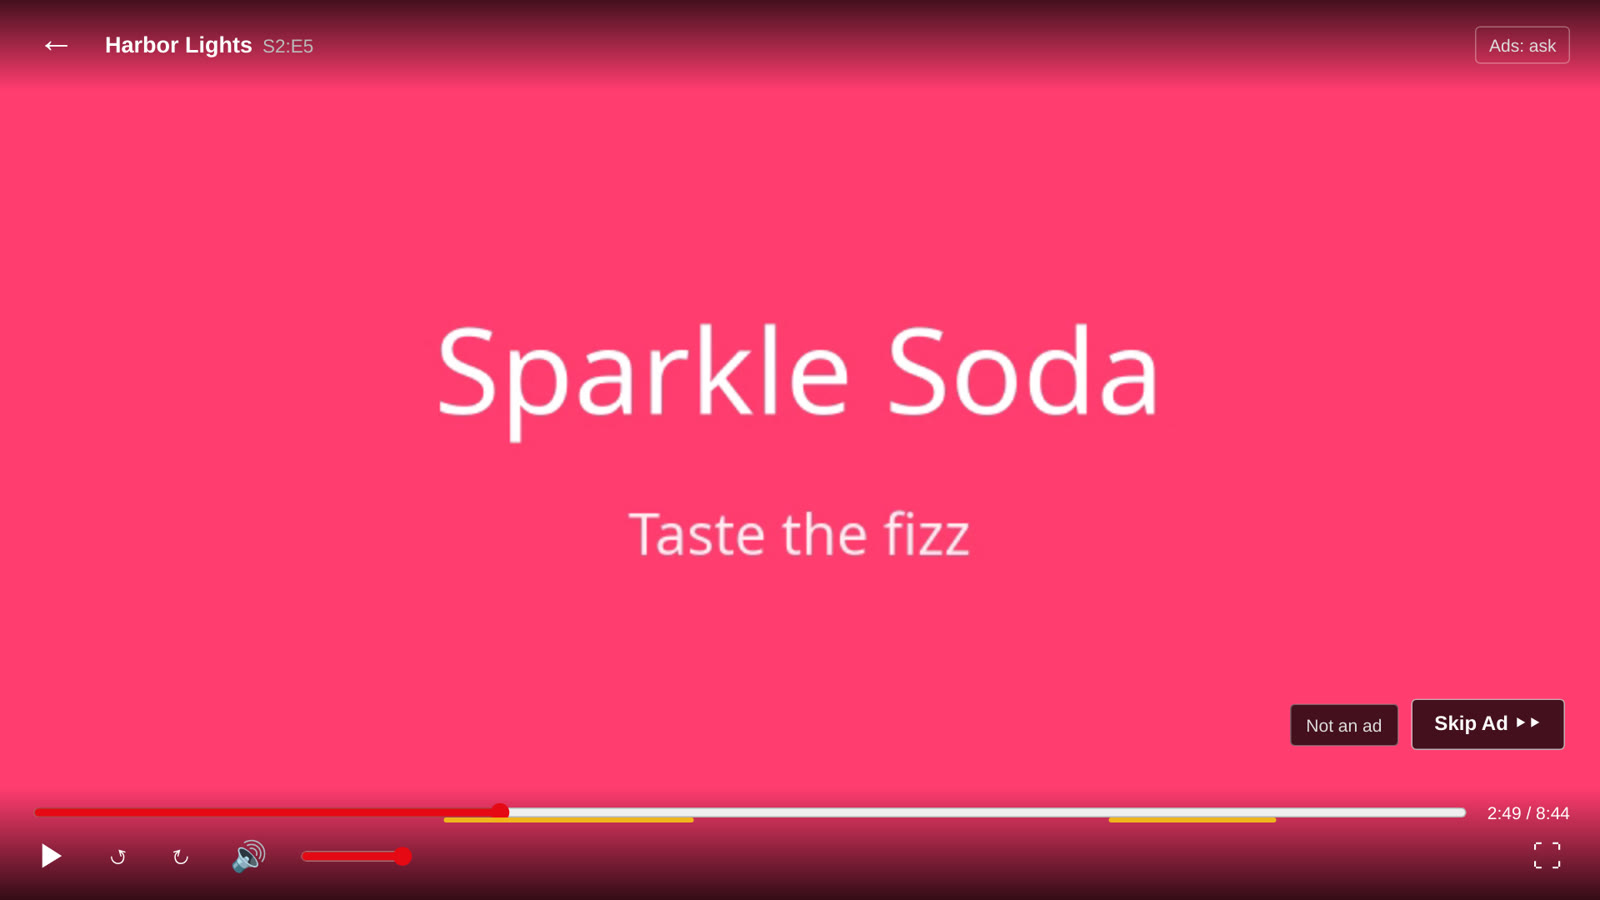
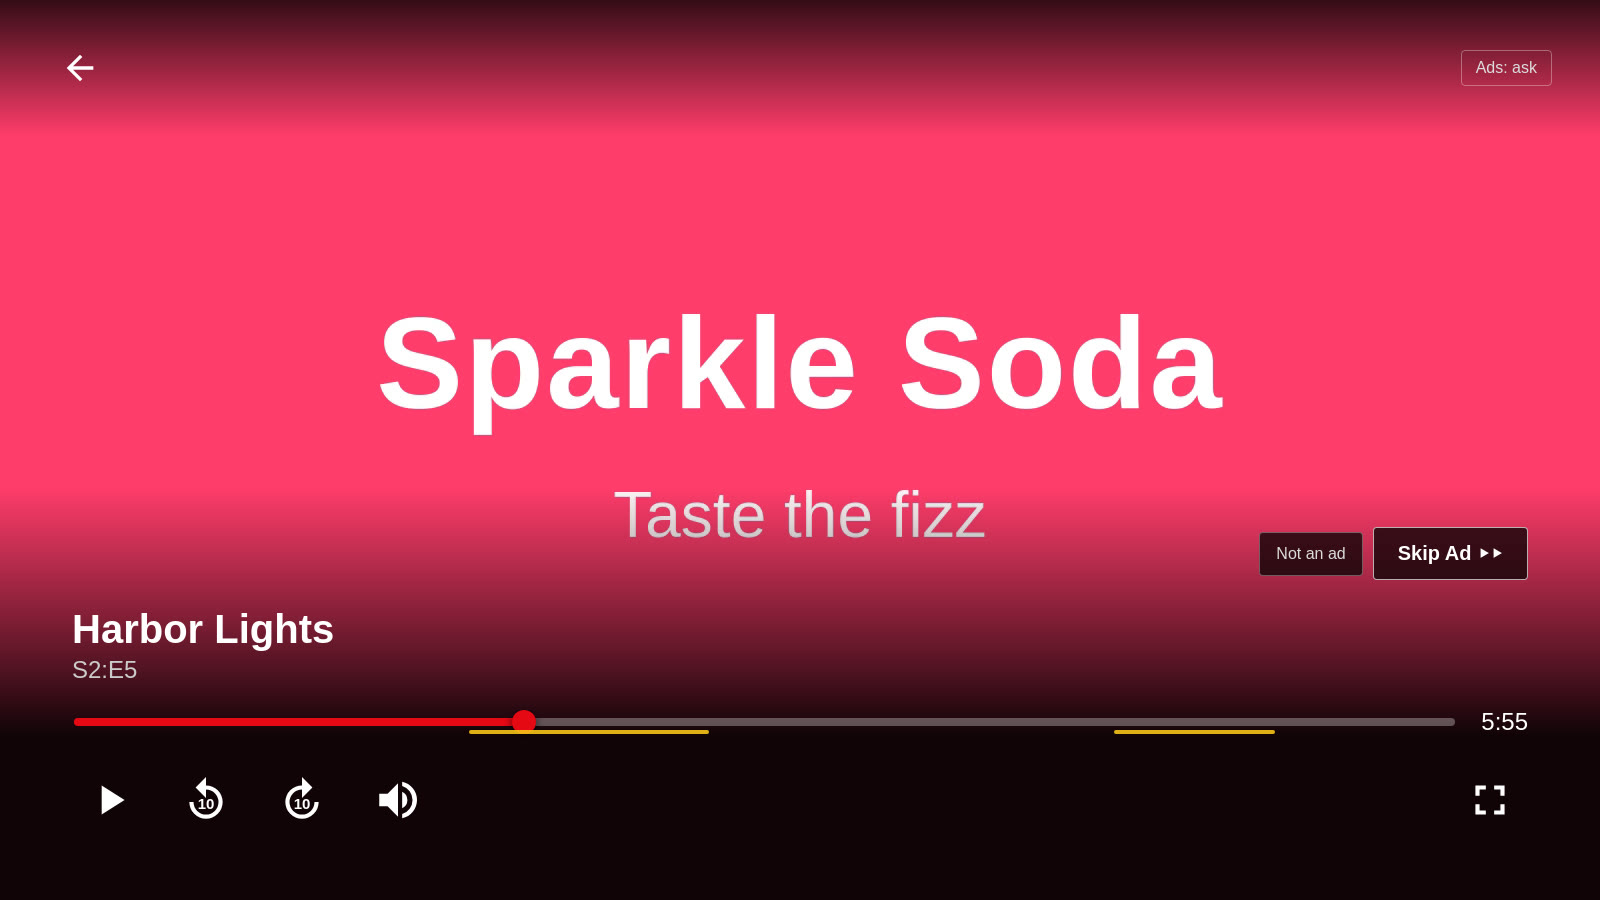
Desktop player: ad marks under the bar; new ad-break screenshot
On computers the yellow ad-break marks sat on the progress bar and hid
the red progress during a break; draw them just under it instead (as
the README describes). Lower the Skip Ad buttons to just above the
controls. Replace the README ad-break screenshot with the TV-style
player. Version 1.4.1.

diff --git a/homeflix.py b/homeflix.py
@@ -52,7 +52,7 @@ from concurrent.futures import ThreadPoolExecutor
 from pathlib import Path
 from typing import Dict, List, Optional, Sequence, Tuple, Union
 
-VERSION = "1.4.0"
+VERSION = "1.4.1"
 
 VIDEO_EXT = {".mp4", ".m4v", ".mkv", ".webm", ".mov", ".avi", ".wmv", ".flv", ".ts",
              ".m2ts", ".mts", ".mpg", ".mpeg", ".3gp", ".ogv", ".divx", ".vob"}
@@ -2261,7 +2261,7 @@ input[type=range]{accent-color:var(--red);cursor:pointer}
 #player.desk #pseek{-webkit-appearance:none;appearance:none;height:8px;border-radius:4px;background:linear-gradient(to right,var(--red) var(--pct,0%),#ffffff4d var(--pct,0%))}
 #player.desk #pseek::-webkit-slider-thumb{-webkit-appearance:none;width:24px;height:24px;border-radius:50%;background:var(--red);border:0;box-shadow:0 2px 8px #000a}
 #player.desk #pseek::-moz-range-thumb{width:24px;height:24px;border-radius:50%;background:var(--red);border:0}
-#player.desk #padbar{top:50%;height:8px;margin-top:-4px}
+#player.desk #padbar{top:calc(50% + 8px);height:4px}
 #player.desk .pctl{margin-top:24px;gap:20px;align-items:flex-start;padding-bottom:28px}
 #player.desk .pctl .sp{align-self:center}
 #player.desk .pctl button{position:relative;width:76px;height:76px;min-width:76px;padding:0;border-radius:50%;display:grid;place-items:center;color:#fff;cursor:pointer}
@@ -2278,7 +2278,7 @@ input[type=range]{accent-color:var(--red);cursor:pointer}
 #player.desk #psubw{position:relative}
 #player.desk #psubbtn{display:grid}
 #player.desk #psubs{position:absolute;left:0;top:0;width:76px;height:76px;opacity:0;cursor:pointer;z-index:1}
-#player.desk #pskip{bottom:360px;right:72px}
+#player.desk #pskip{bottom:320px;right:72px}
 #player.desk #pskip button{font-size:20px;padding:14px 24px}#player.desk #pskip #pnotad{font-size:16px;padding:12px 16px}
 #player.desk #pmsg{font-size:22px;padding:18px 28px}
 @media (max-width:900px),(max-height:600px){#player.desk .pbot{padding:80px 28px 18px}#player.desk .ptop{padding:20px 24px}

diff --git a/README.md b/README.md
@@ -98,7 +98,7 @@ It's one file and uses nothing outside the Python standard library. You can read
 - The detector is from [TabloView](https://github.com/JoeDV/TabloView) by JoeDV.
 
 <p align="center">
-  <img src="docs/screenshots/ad-skip.jpg" alt="Homeflix player during an ad break: yellow ad-break marks under the seek bar, Skip Ad and Not an ad buttons in the corner, and an Ads: ask toggle at the top right" width="100%">
+  <img src="docs/screenshots/ad-skip.jpg" alt="Homeflix player on a computer during an ad break: yellow ad-break marks under the seek bar, Skip Ad and Not an ad buttons above the controls, and an Ads: ask toggle at the top right" width="100%">
   <br><sub>An ad break: the yellow marks under the seek bar show where every break is, and <b>Skip Ad</b> jumps to the end of this one.</sub>
 </p>
 
